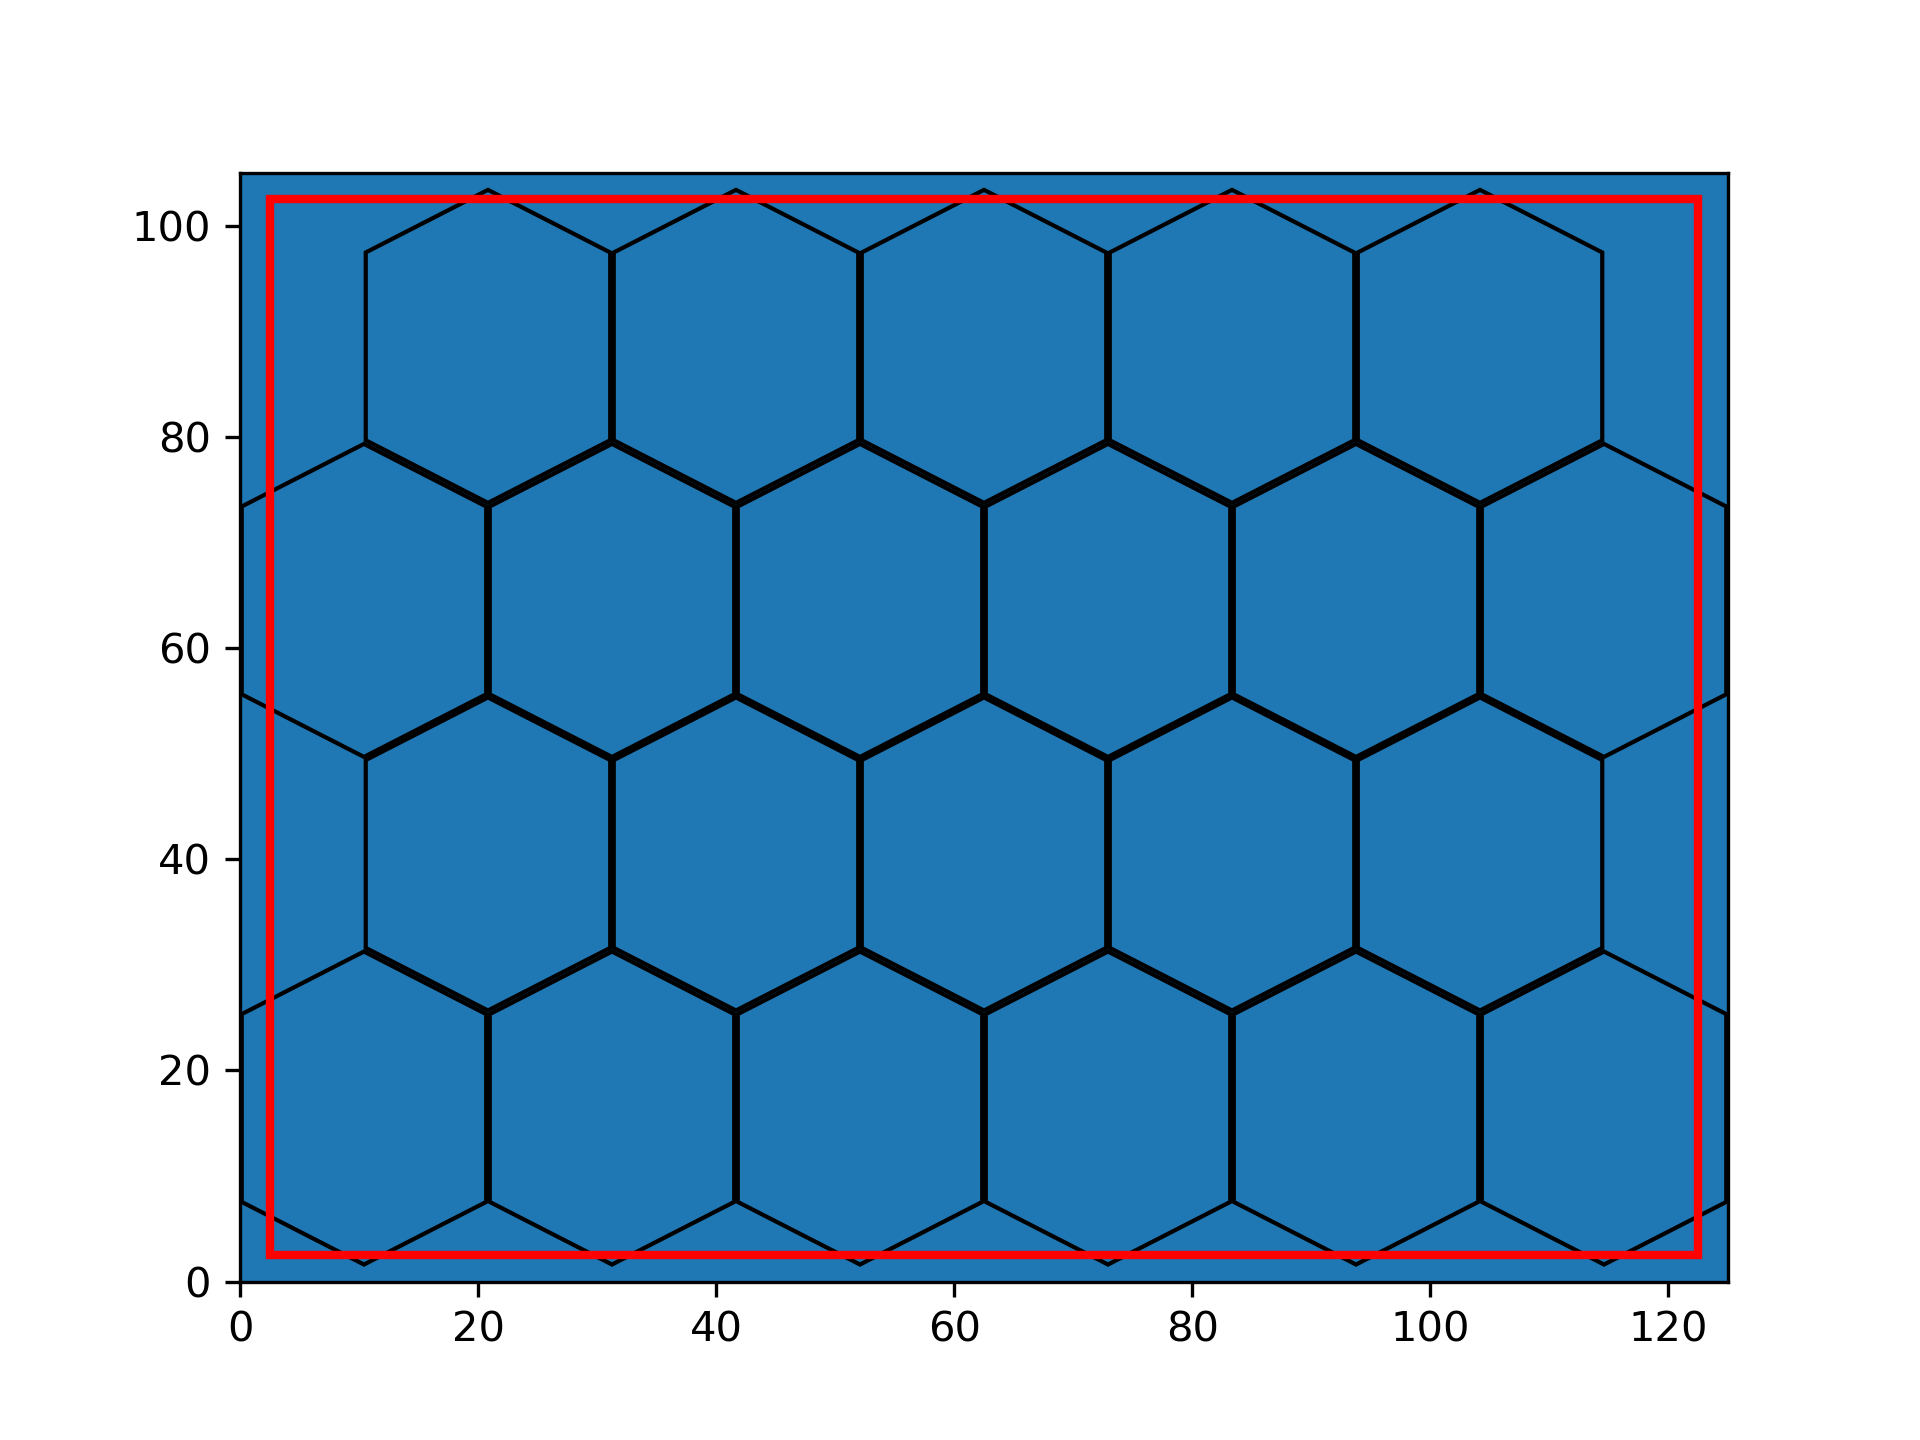
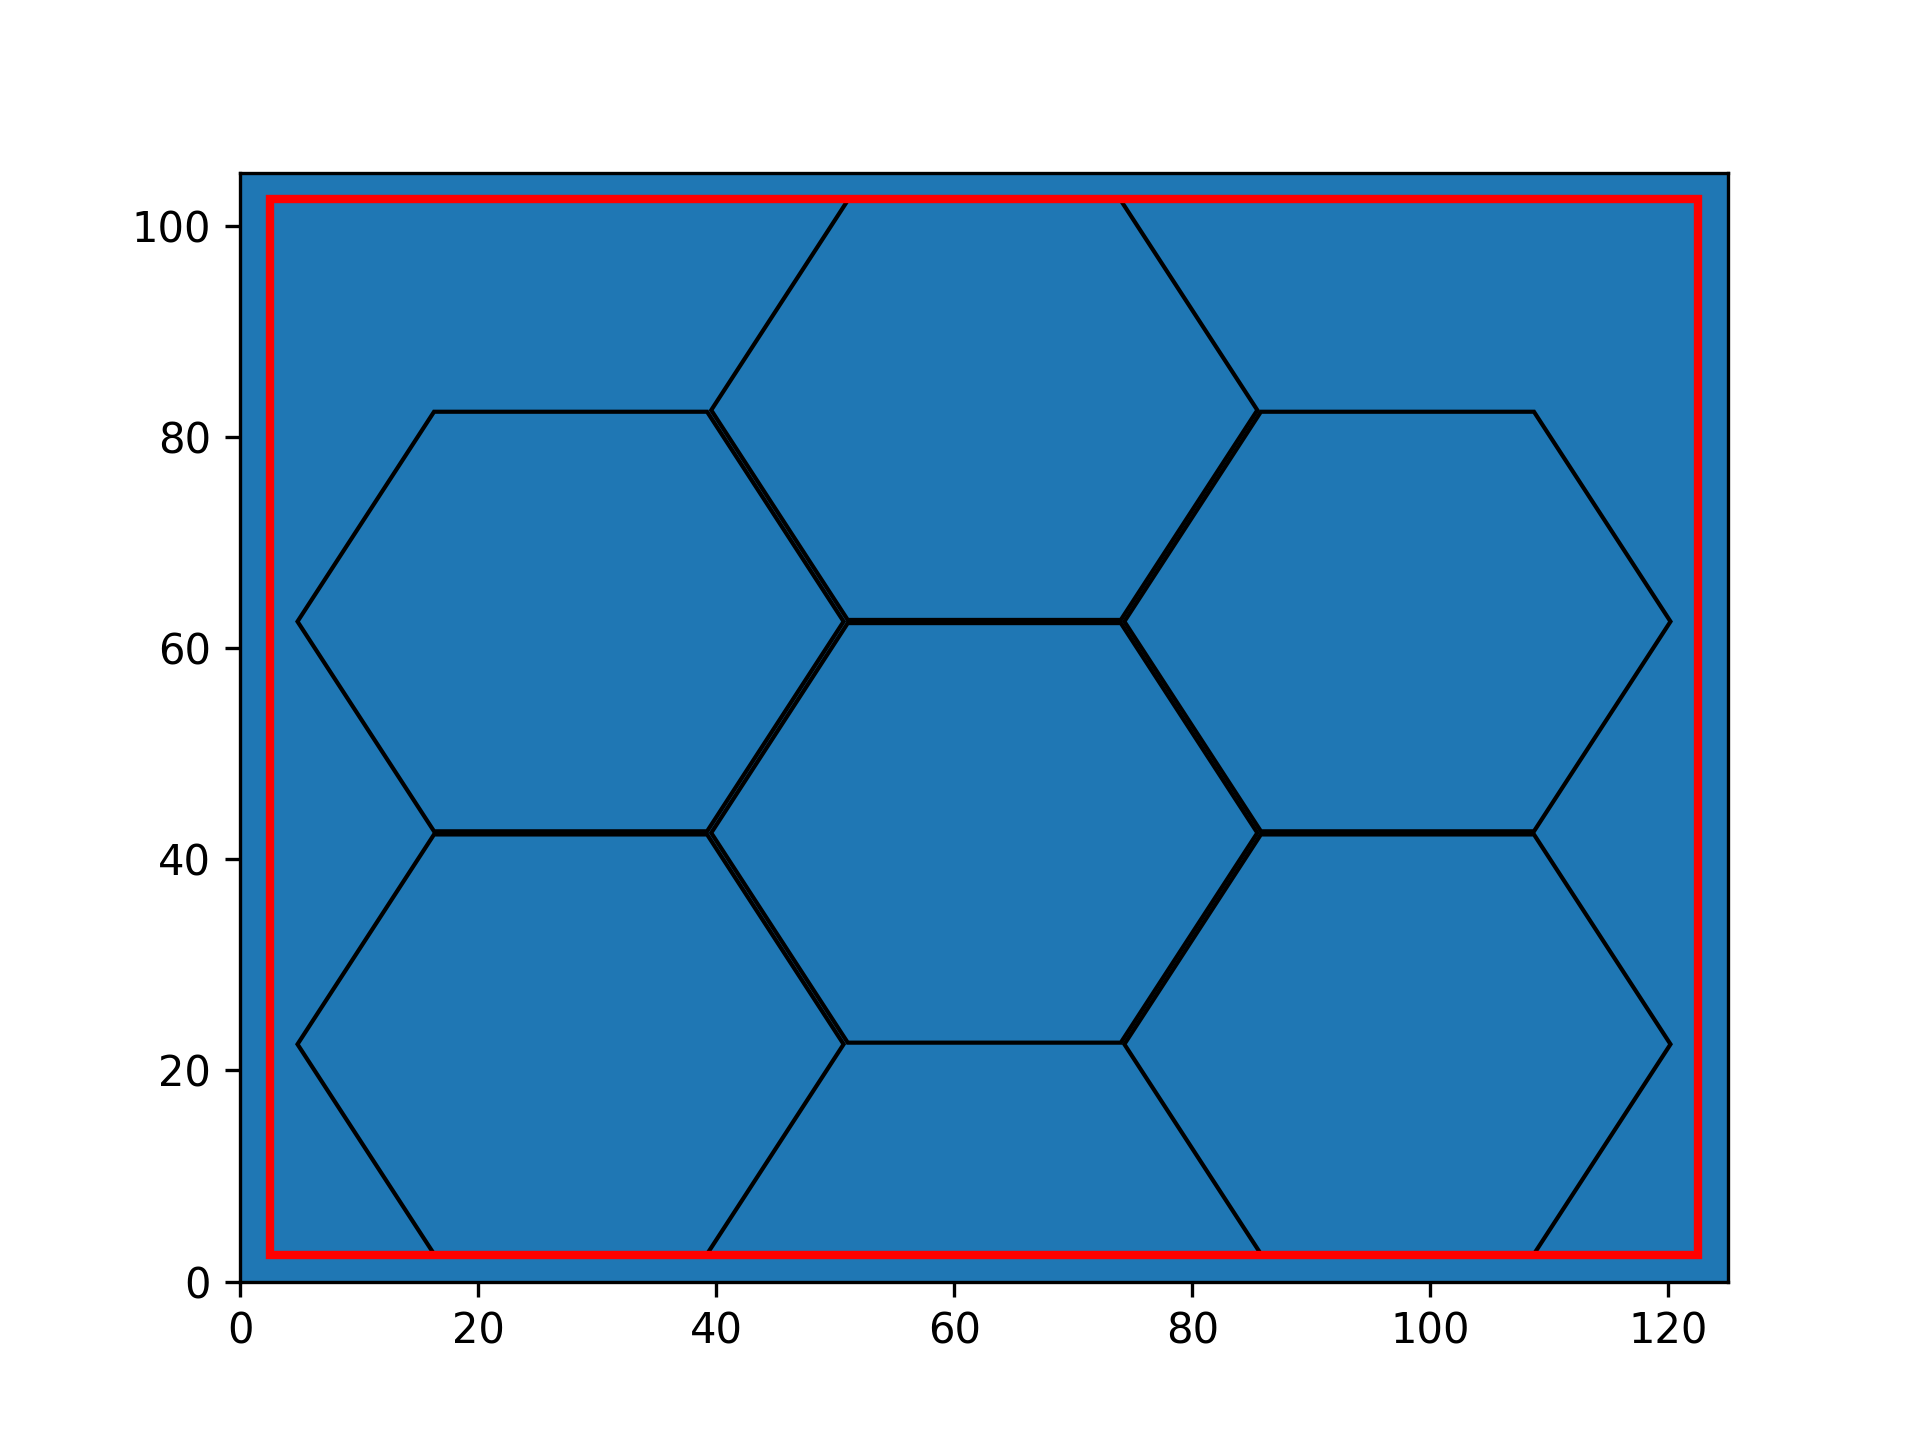
plot onù

diff --git a/CLI_main.py b/CLI_main.py
@@ -20,7 +20,7 @@ def hexagon_test(dest):
     elif float(dest)  > 50 and float(dest)  <= 70:
         compo_list = ["4-5-6-5-4", "4-5-6-7-6-5-4", "3-4-5-4-3"]
     elif float(dest)  > 70:
-        compo_list = ["3-4-3"]
+        compo_list = ["3-4-3", "3-4-5-4-3"]
 
     for i in range(0, len(compo_list)):
         rows_array = [float(i) for i in compo_list[i].split('-')]
@@ -64,7 +64,7 @@ while quit:
     diameter = input()
     if diameter == "quit()":
         quit = False
-    elif checkfloat(diameter):
+    elif checkfloat(diameter) and float(diameter) >= 30 and float(diameter) <= 90:
         print("------------------------------------COMPOSIZIONI CONSIGLIATE")
         total_hexagon = hexagon_test(diameter)
         total_rectangle = rectangle_test(diameter)
@@ -72,7 +72,7 @@ while quit:
         print("     -> Forma esagonale: " + str(total_hexagon))
         print("     -> Forma rettangolare: " + str(total_rectangle))
     else:
-        print("Inserisci un diametro valido o digita 'quit()' per terminare")
+        print("Inserisci un diametro valido compreso tra 30mm e 90mm o digita 'quit()' per terminare")
 
 
 

diff --git a/folder_1/Main.py b/folder_1/Main.py
@@ -197,12 +197,12 @@ def compute(hex_width, hex_height, hex_side, index):
     len_rotation = test_rotation(hexagons_rot, hex_width, hex_height, hex_side, index)
 
     if(len_no_rotation > len_rotation):
-        #dr.draw_rectangle(hexagons_no_rot, hex_width, hex_height, hex_side, "rotation", index)
+        dr.draw_rectangle(hexagons_no_rot, hex_width, hex_height, hex_side, "rotation", index)
         return len_no_rotation
         
         
     else:
-        #dr.draw_rectangle(hexagons_rot, hex_width, hex_height, hex_side, "rotation", index)
+        dr.draw_rectangle(hexagons_rot, hex_width, hex_height, hex_side, "rotation", index)
         return len_rotation
 
 

diff --git a/folder_2/Draw.py b/folder_2/Draw.py
@@ -2,7 +2,7 @@ import matplotlib.pyplot as plt
 from matplotlib.patches import Rectangle
 from matplotlib.patches import Polygon
 
-def draw_rectangle(rectangles, index):
+def draw_rectangles(rectangles):
     # Create a rectangle object with width=120 and height=100
     rect = Rectangle((0, 0), 125, 105)
 

diff --git a/folder_2/Main.py b/folder_2/Main.py
@@ -55,5 +55,6 @@ def main(L, l):
     else:
         rectangles = rectangles_rot
 
-
+    d.draw_rectangles(rectangles)
+    
     return rectangles
